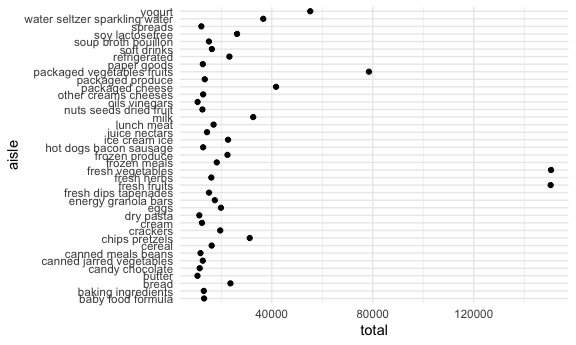
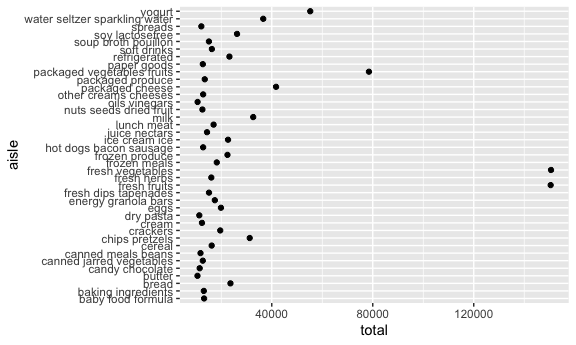
creating a plot and summarizing the 24-hour activity time course for each day of the observation.

diff --git a/p8105_hw3_rt2640.md b/p8105_hw3_rt2640.md
@@ -27,8 +27,6 @@ knitr::opts_chunk$set(
   out.width = "90%"
 )
 
-theme_set(theme_minimal() + theme(legend.position = "bottom"))
-
 options(
   ggplot2.continuous.colour = "viridis",
   ggplot2.continuous.fill = "viridis"
@@ -328,3 +326,30 @@ activity_day
 |      33 | Thursday           |    5 | Weekday              |       549658.00 |
 |      34 | Tuesday            |    5 | Weekday              |       367824.00 |
 |      35 | Wednesday          |    5 | Weekday              |       445366.00 |
+
+The subject under observation overall has higher activity during the
+weekdays compared to the weekends on average across 5 weeks. He also has
+significantly lower total activity on Saturday of Week 4 and Week 5.
+
+#### Problem 3 Part 3
+
+``` r
+by_day = accel_df %>%
+  separate(activity_num, into = c("activity", "minute"), sep = "_") %>%
+  mutate(minute = as.numeric(minute)) %>%
+  group_by(day_id,day_of_the_week,week, weekday_vs_weekend)
+
+by_day %>%
+  ggplot(aes(x = minute, y = activity_count , color = day_of_the_week)) +
+  geom_point() +
+  geom_line(alpha = .3) +
+  theme(legend.position = "bottom") +
+  viridis::scale_fill_viridis(discrete = TRUE)
+```
+
+<img src="p8105_hw3_rt2640_files/figure-gfm/unnamed-chunk-10-1.png" width="90%" />
+
+The subject under observation has an overall lower activity on tuesdays
+across all 5 weeks of observation. The average activity between 0-400
+minutes (night time) is lower across all days. The activity trend on
+Fridays is on average higher during the evening hours.
